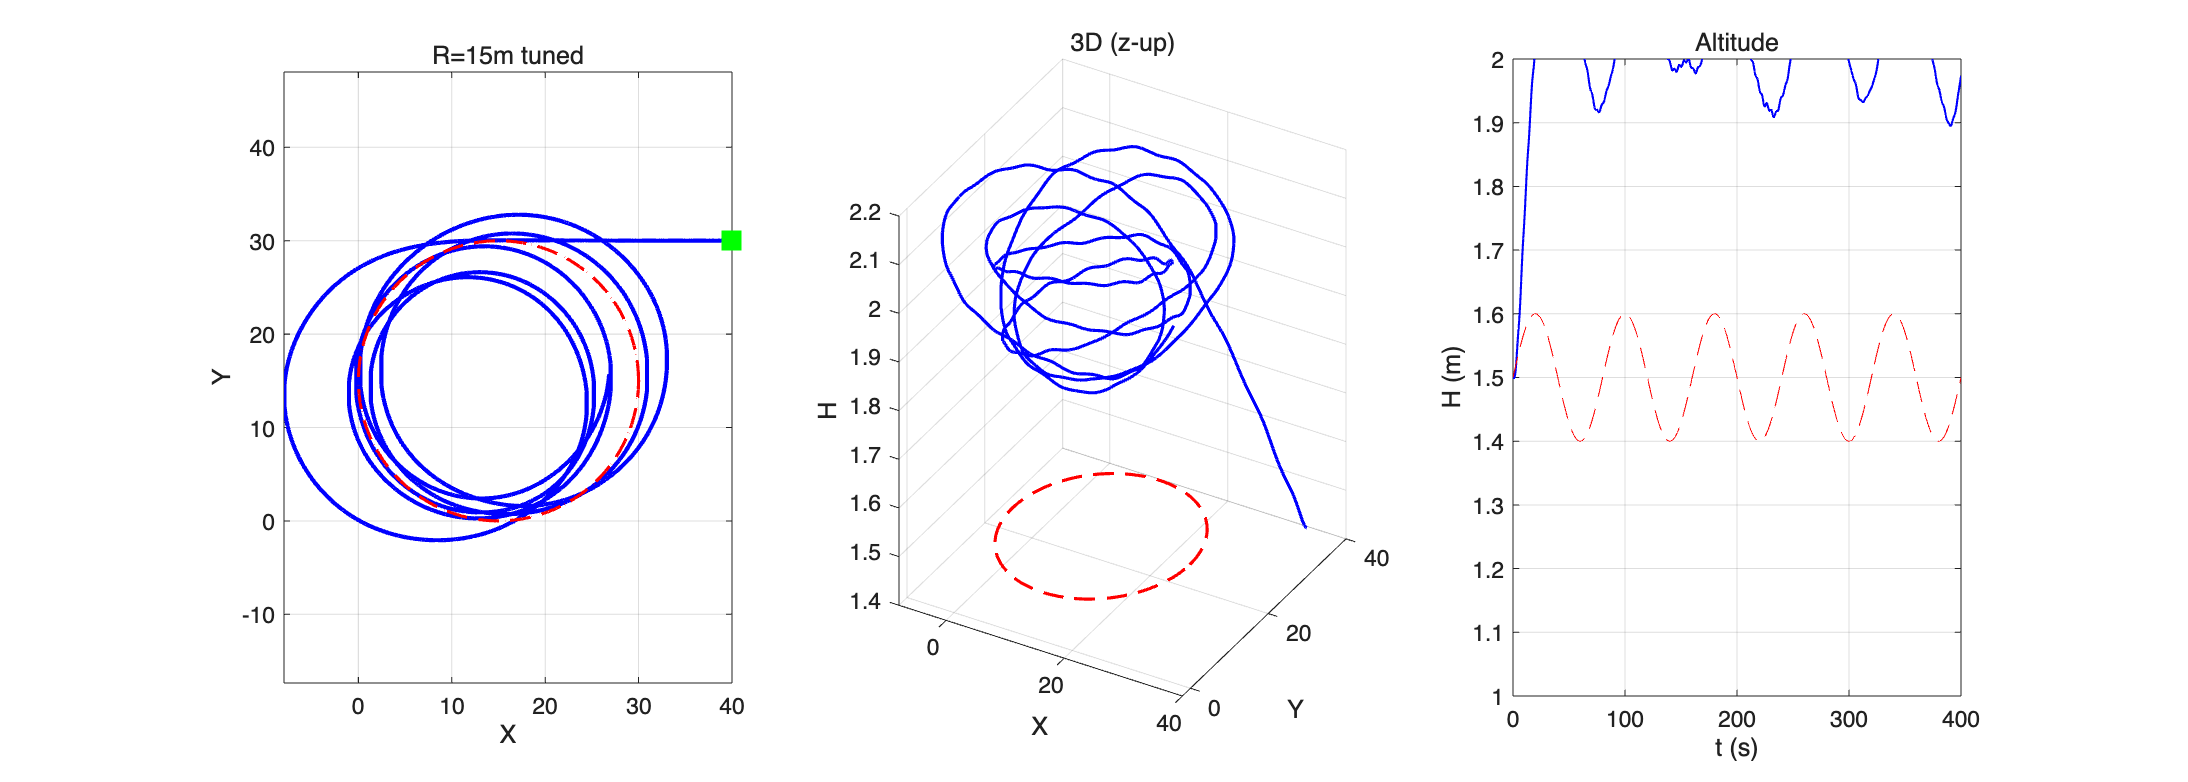
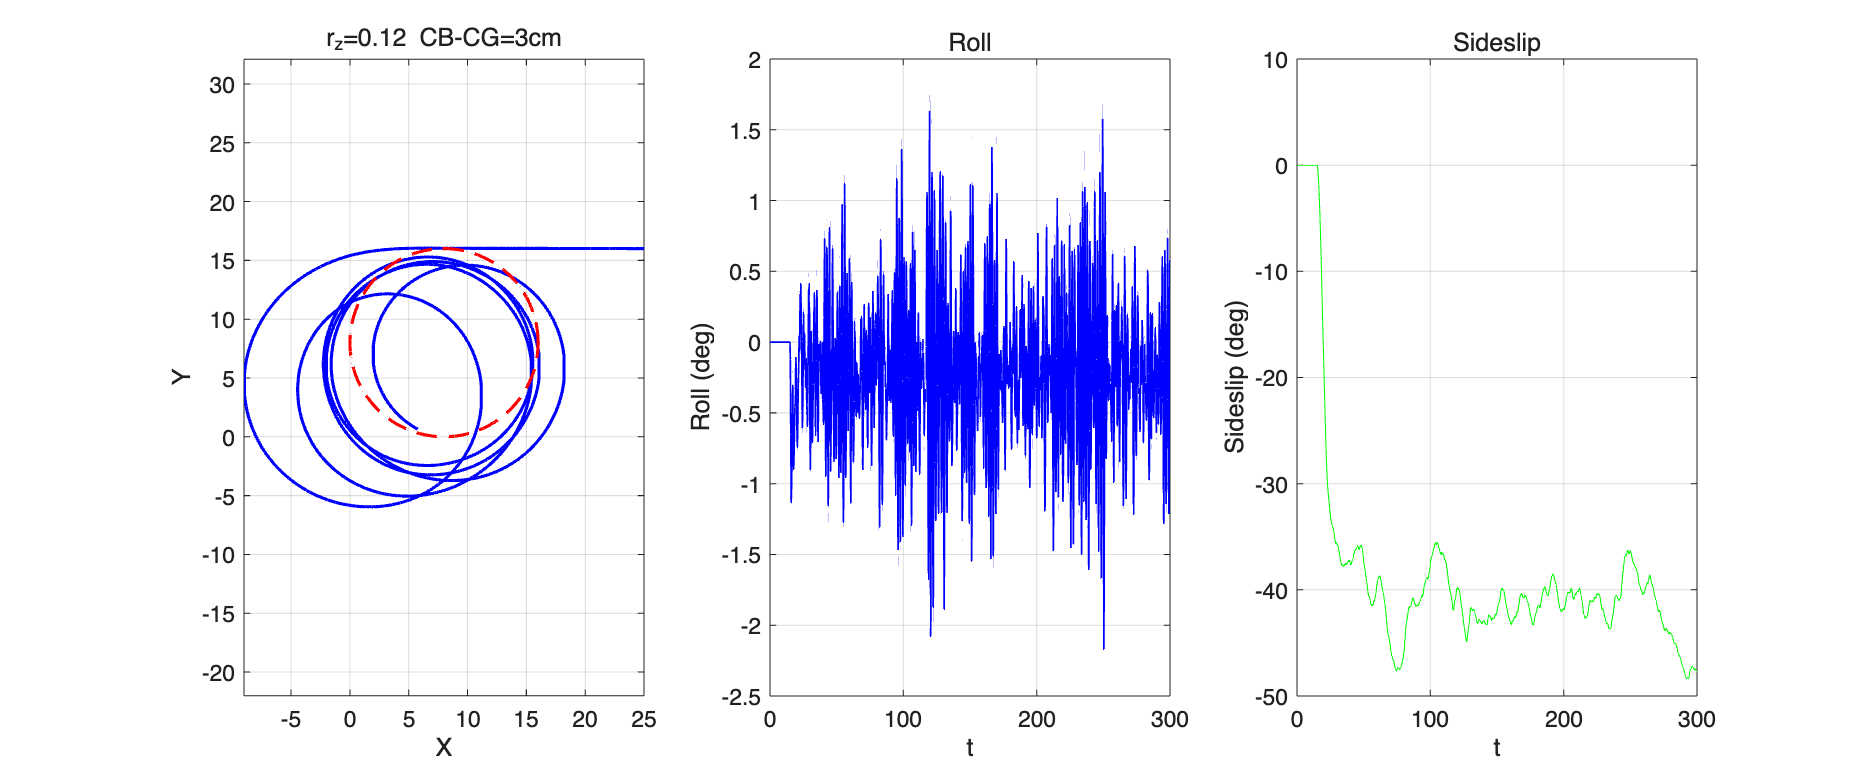
Sideslip experiments: cant, r_z, thrust - structural limit ~38deg
- Prop cant 15deg: sideslip 41→42deg (효과 없음)
- r_prop_z 0.03→0.12 + CB-CG 5→3cm: 42→42deg (효과 없음)
- prop_max 0.15→0.30N: 42→38deg (약간 개선)
- 결론: 횡방향 추진 없이 sideslip ~40도는 구조적 한계
- Codex: yaw-vectoring 서보 또는 lateral fan이 필요
- 논문: Berkeley cant 3도 → yaw 72% 향상 (쿼드콥터)
- Dronico: prop이 CG 아래에 있어서 roll 45도 가능

diff --git a/simulink/ForceCalc_code.m b/simulink/ForceCalc_code.m
@@ -61,13 +61,13 @@ Cd    = 0.30;
 S_ref = pi * b_semi^2;   % 정면 단면적 [m²]
 
 % Hidden Prop (2.5인치, 가슴지느러미 끝)
-prop_max_thrust = 0.15;  % 최대 추력 [N] (약 15g)
+prop_max_thrust = 0.30;  % 2배 추력 (더 큰 모터)  % 최대 추력 [N] (약 15g)
 r_prop_x = 0.35;         % CG 앞 [m] (가슴지느러미 위치)
 r_prop_y = 0.30;         % CG 옆 [m]
-r_prop_z = 0.03;         % CG와 같은 높이 (roll coupling 감소)         % CG 아래 [m]
+r_prop_z = 0.12;         % CG 아래 12cm (Dronico처럼)         % CG 아래 [m]
 
 % 부력-무게중심 오프셋
-r_CB_CG = [0; 0; -0.05]; % CB가 CG보다 5cm 위 (NED z-down)
+r_CB_CG = [0; 0; -0.03];  % CB-CG 3cm % CB가 CG보다 5cm 위 (NED z-down)
 
 %% ========== 서보 입력 분리 ==========
 tail_freq      = min(max(servo_in(1), tail_freq_min), tail_freq_max);
@@ -166,11 +166,15 @@ T_rot_damp = -0.001 * omega_b;
 F_prop_L = prop_L_cmd * prop_max_thrust;
 F_prop_R = prop_R_cmd * prop_max_thrust;
 
-% 프로펠러 힘 (기체 좌표계, 전방)
-F_props = [(F_prop_L + F_prop_R); 0; 0];
+% 프로펠러 힘 (기체 좌표계, cant=15도 내향)
+cant = 15 * pi/180;  % 15도 내향
+Fx_props = (F_prop_L + F_prop_R) * cos(cant);
+Fy_props = (F_prop_L - F_prop_R) * sin(cant);  % 차동→횡방향
+F_props = [Fx_props; Fy_props; 0];
 
 % 프로펠러 토크 (차동 → yaw, 위치 → pitch/roll)
-T_prop_yaw  = r_prop_y * (F_prop_R - F_prop_L);  % 차동 → yaw
+T_prop_yaw  = r_prop_y * (F_prop_R - F_prop_L) * cos(cant)
+            + r_prop_x * (F_prop_L - F_prop_R) * sin(cant);  % cant Fy contribution  % 차동 → yaw
 T_prop_roll = -r_prop_z * (F_prop_R - F_prop_L); % 차동 → roll (작음)
 T_prop_pitch = -r_prop_x * 0;                     % pitch는 0 (전방 추력)
 T_props = [T_prop_roll; T_prop_pitch; T_prop_yaw];
